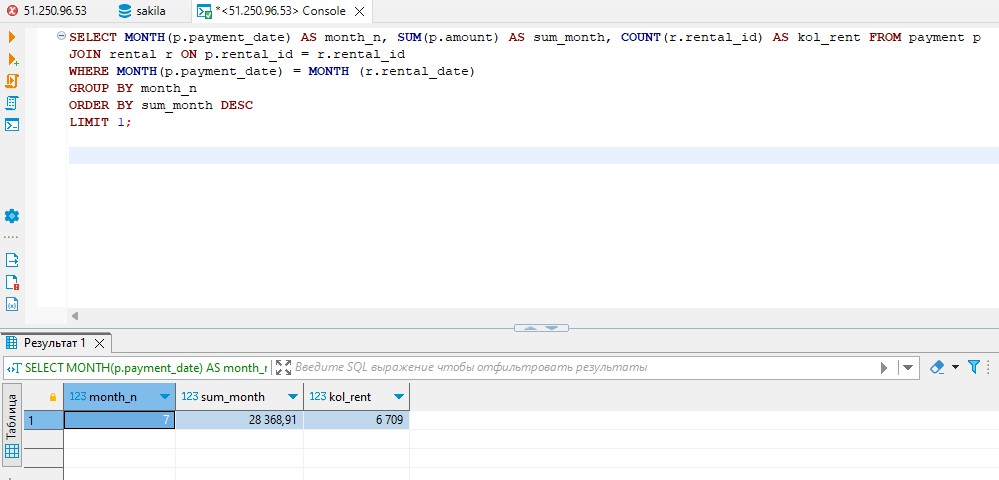
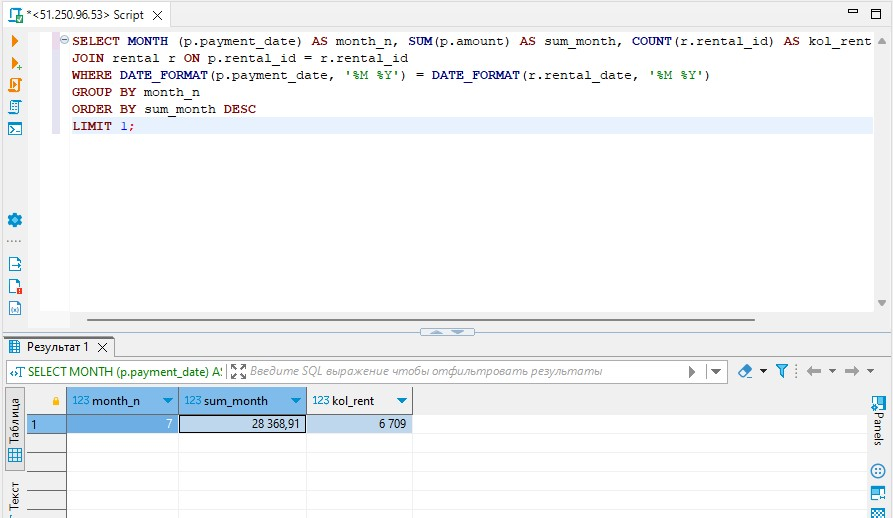
UPDATE

Changed region(s): [[0.0, 0.0, 1.0, 1.0], [0.0605, 0.3125, 0.9675, 0.3438], [0.9675, 0.0, 0.9978, 0.0312]]

diff --git a/HW12_04.md b/HW12_04.md
@@ -42,9 +42,9 @@ WHERE f.`length` > (SELECT AVG (f.`length`) FROM film f);
 ![Скриншот](https://github.com/Tourker/Git_HW/blob/main/img/HW12_04/z3.jpg)`
 
 ```
-SELECT MONTH(p.payment_date) AS month_n, SUM(p.amount) AS sum_month, COUNT(r.rental_id) AS kol_rent FROM payment p
+SELECT MONTH (p.payment_date) AS month_n, SUM(p.amount) AS sum_month, COUNT(r.rental_id) AS kol_rent FROM payment p
 JOIN rental r ON p.rental_id = r.rental_id
-WHERE MONTH(p.payment_date) = MONTH (r.rental_date) 
+WHERE DATE_FORMAT(p.payment_date, '%M %Y') = DATE_FORMAT(r.rental_date, '%M %Y') 
 GROUP BY month_n
 ORDER BY sum_month DESC
 LIMIT 1;
